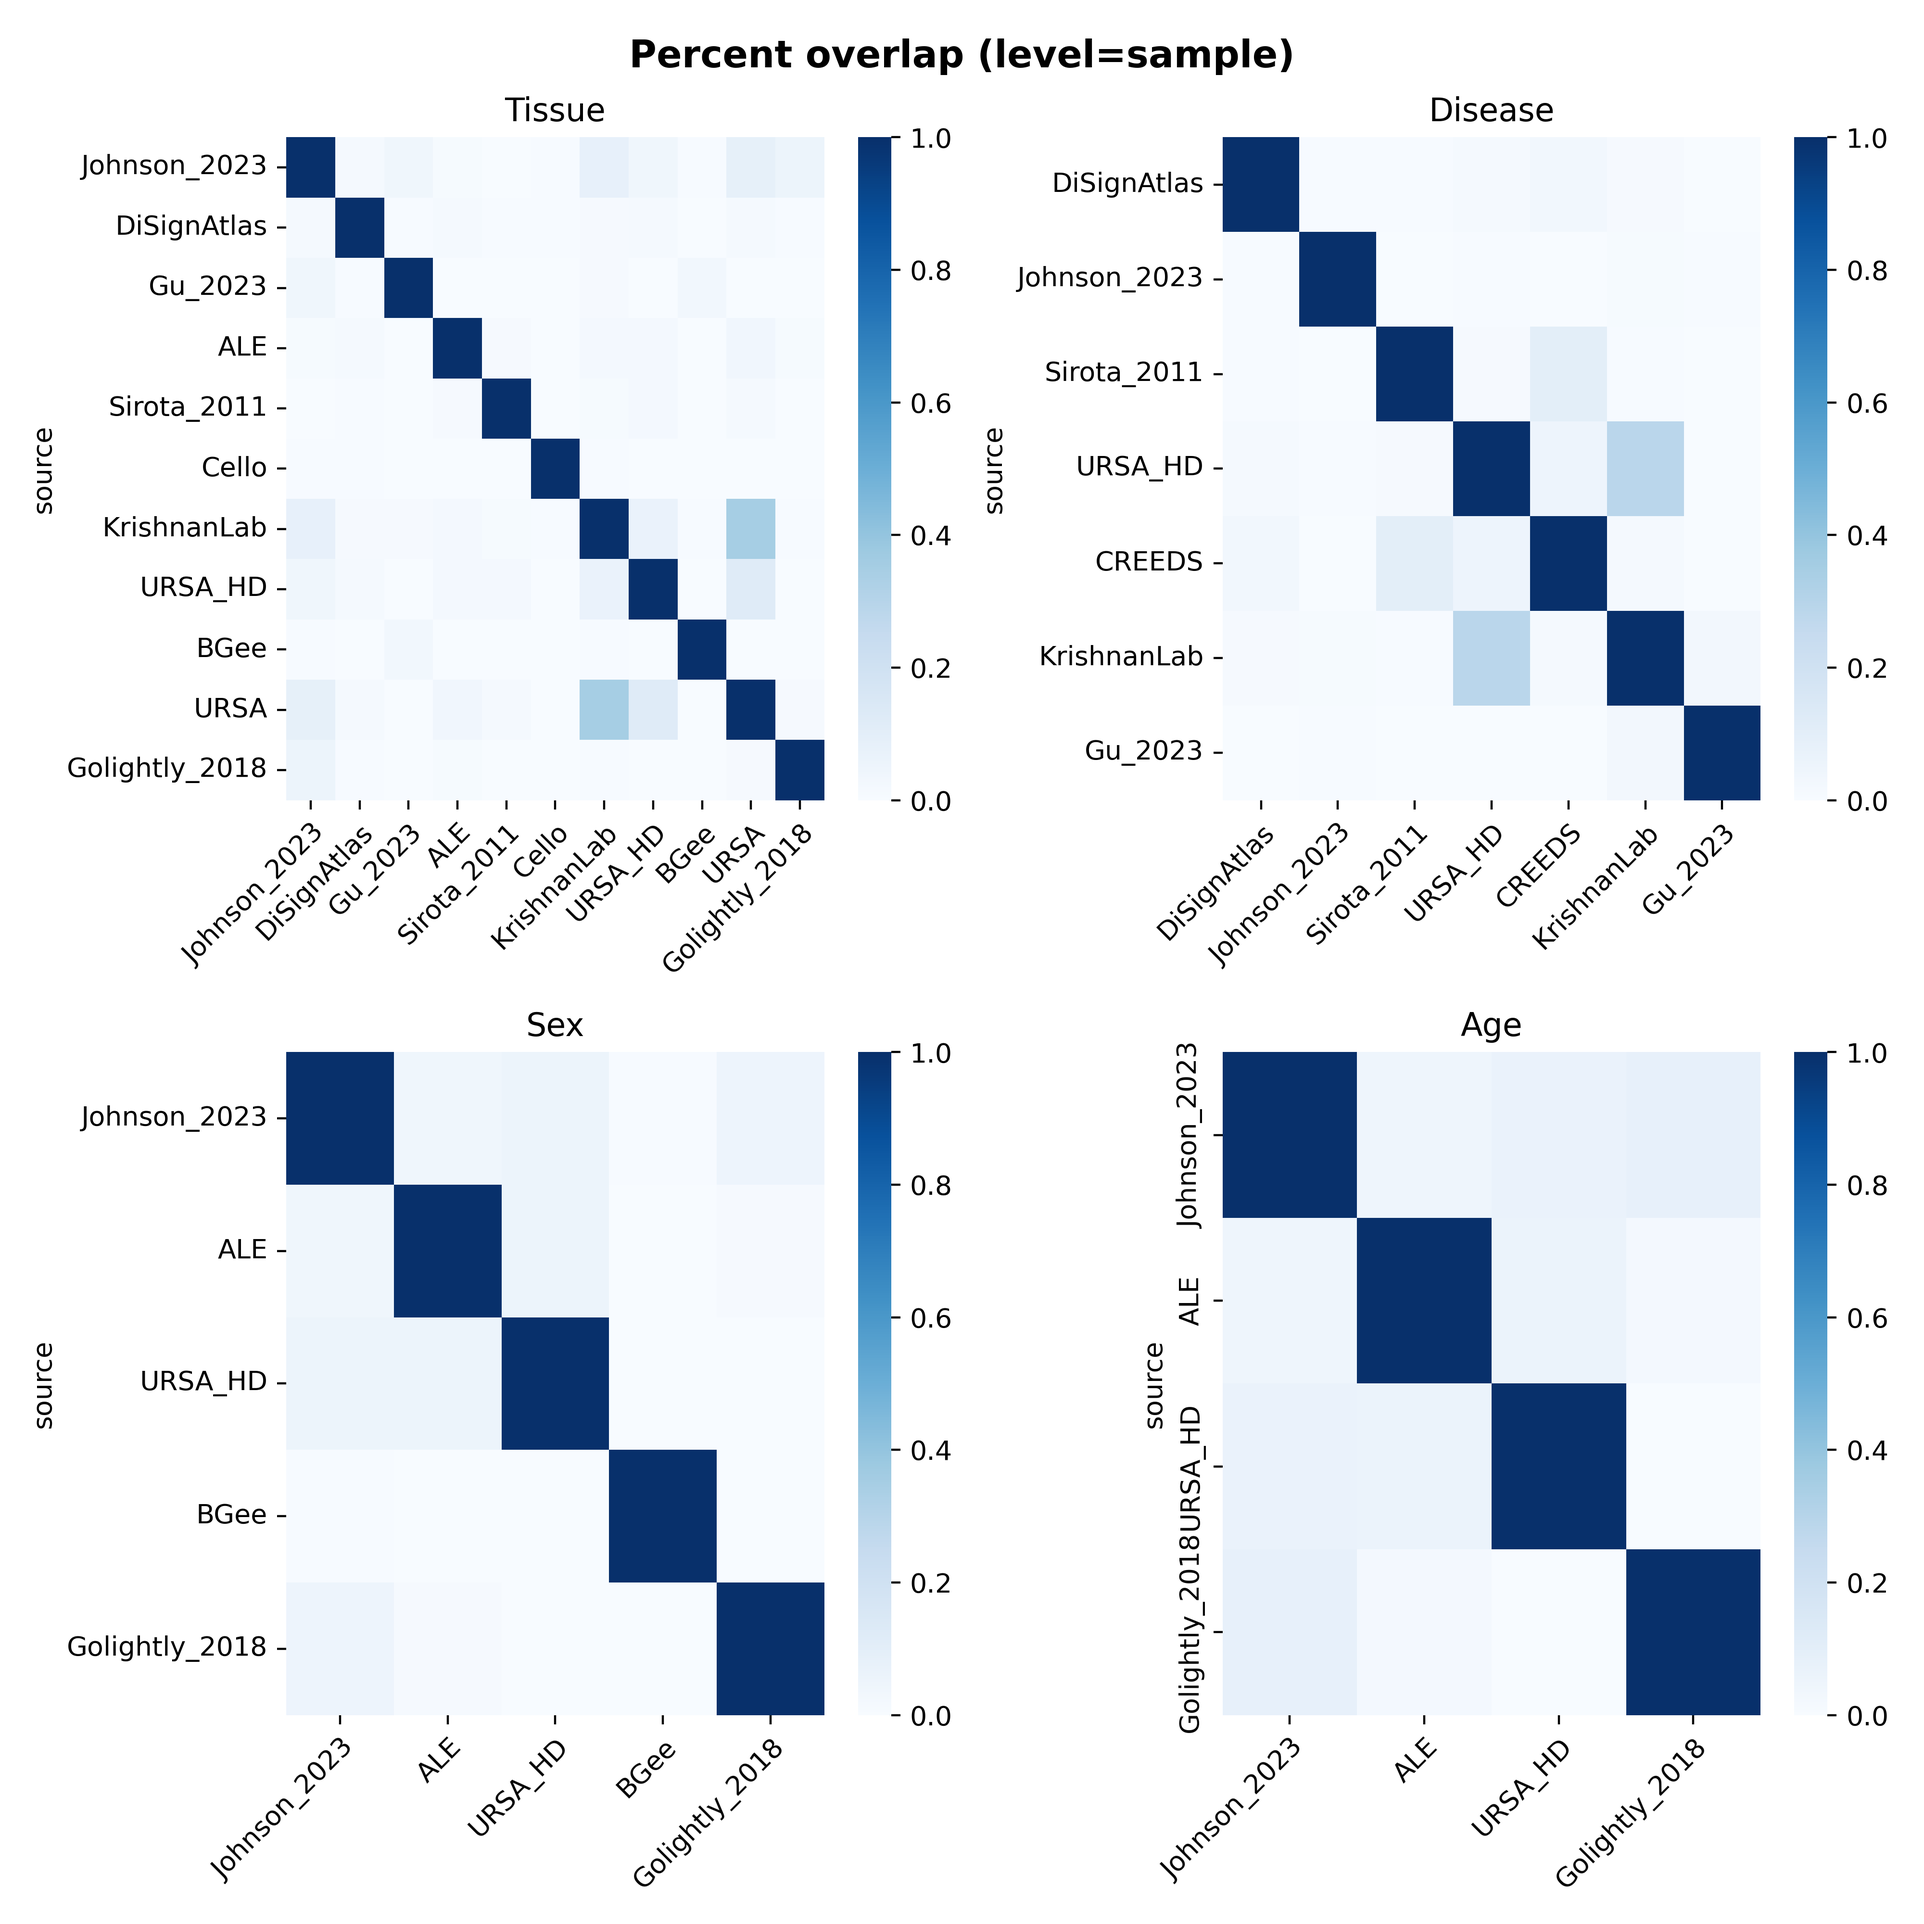
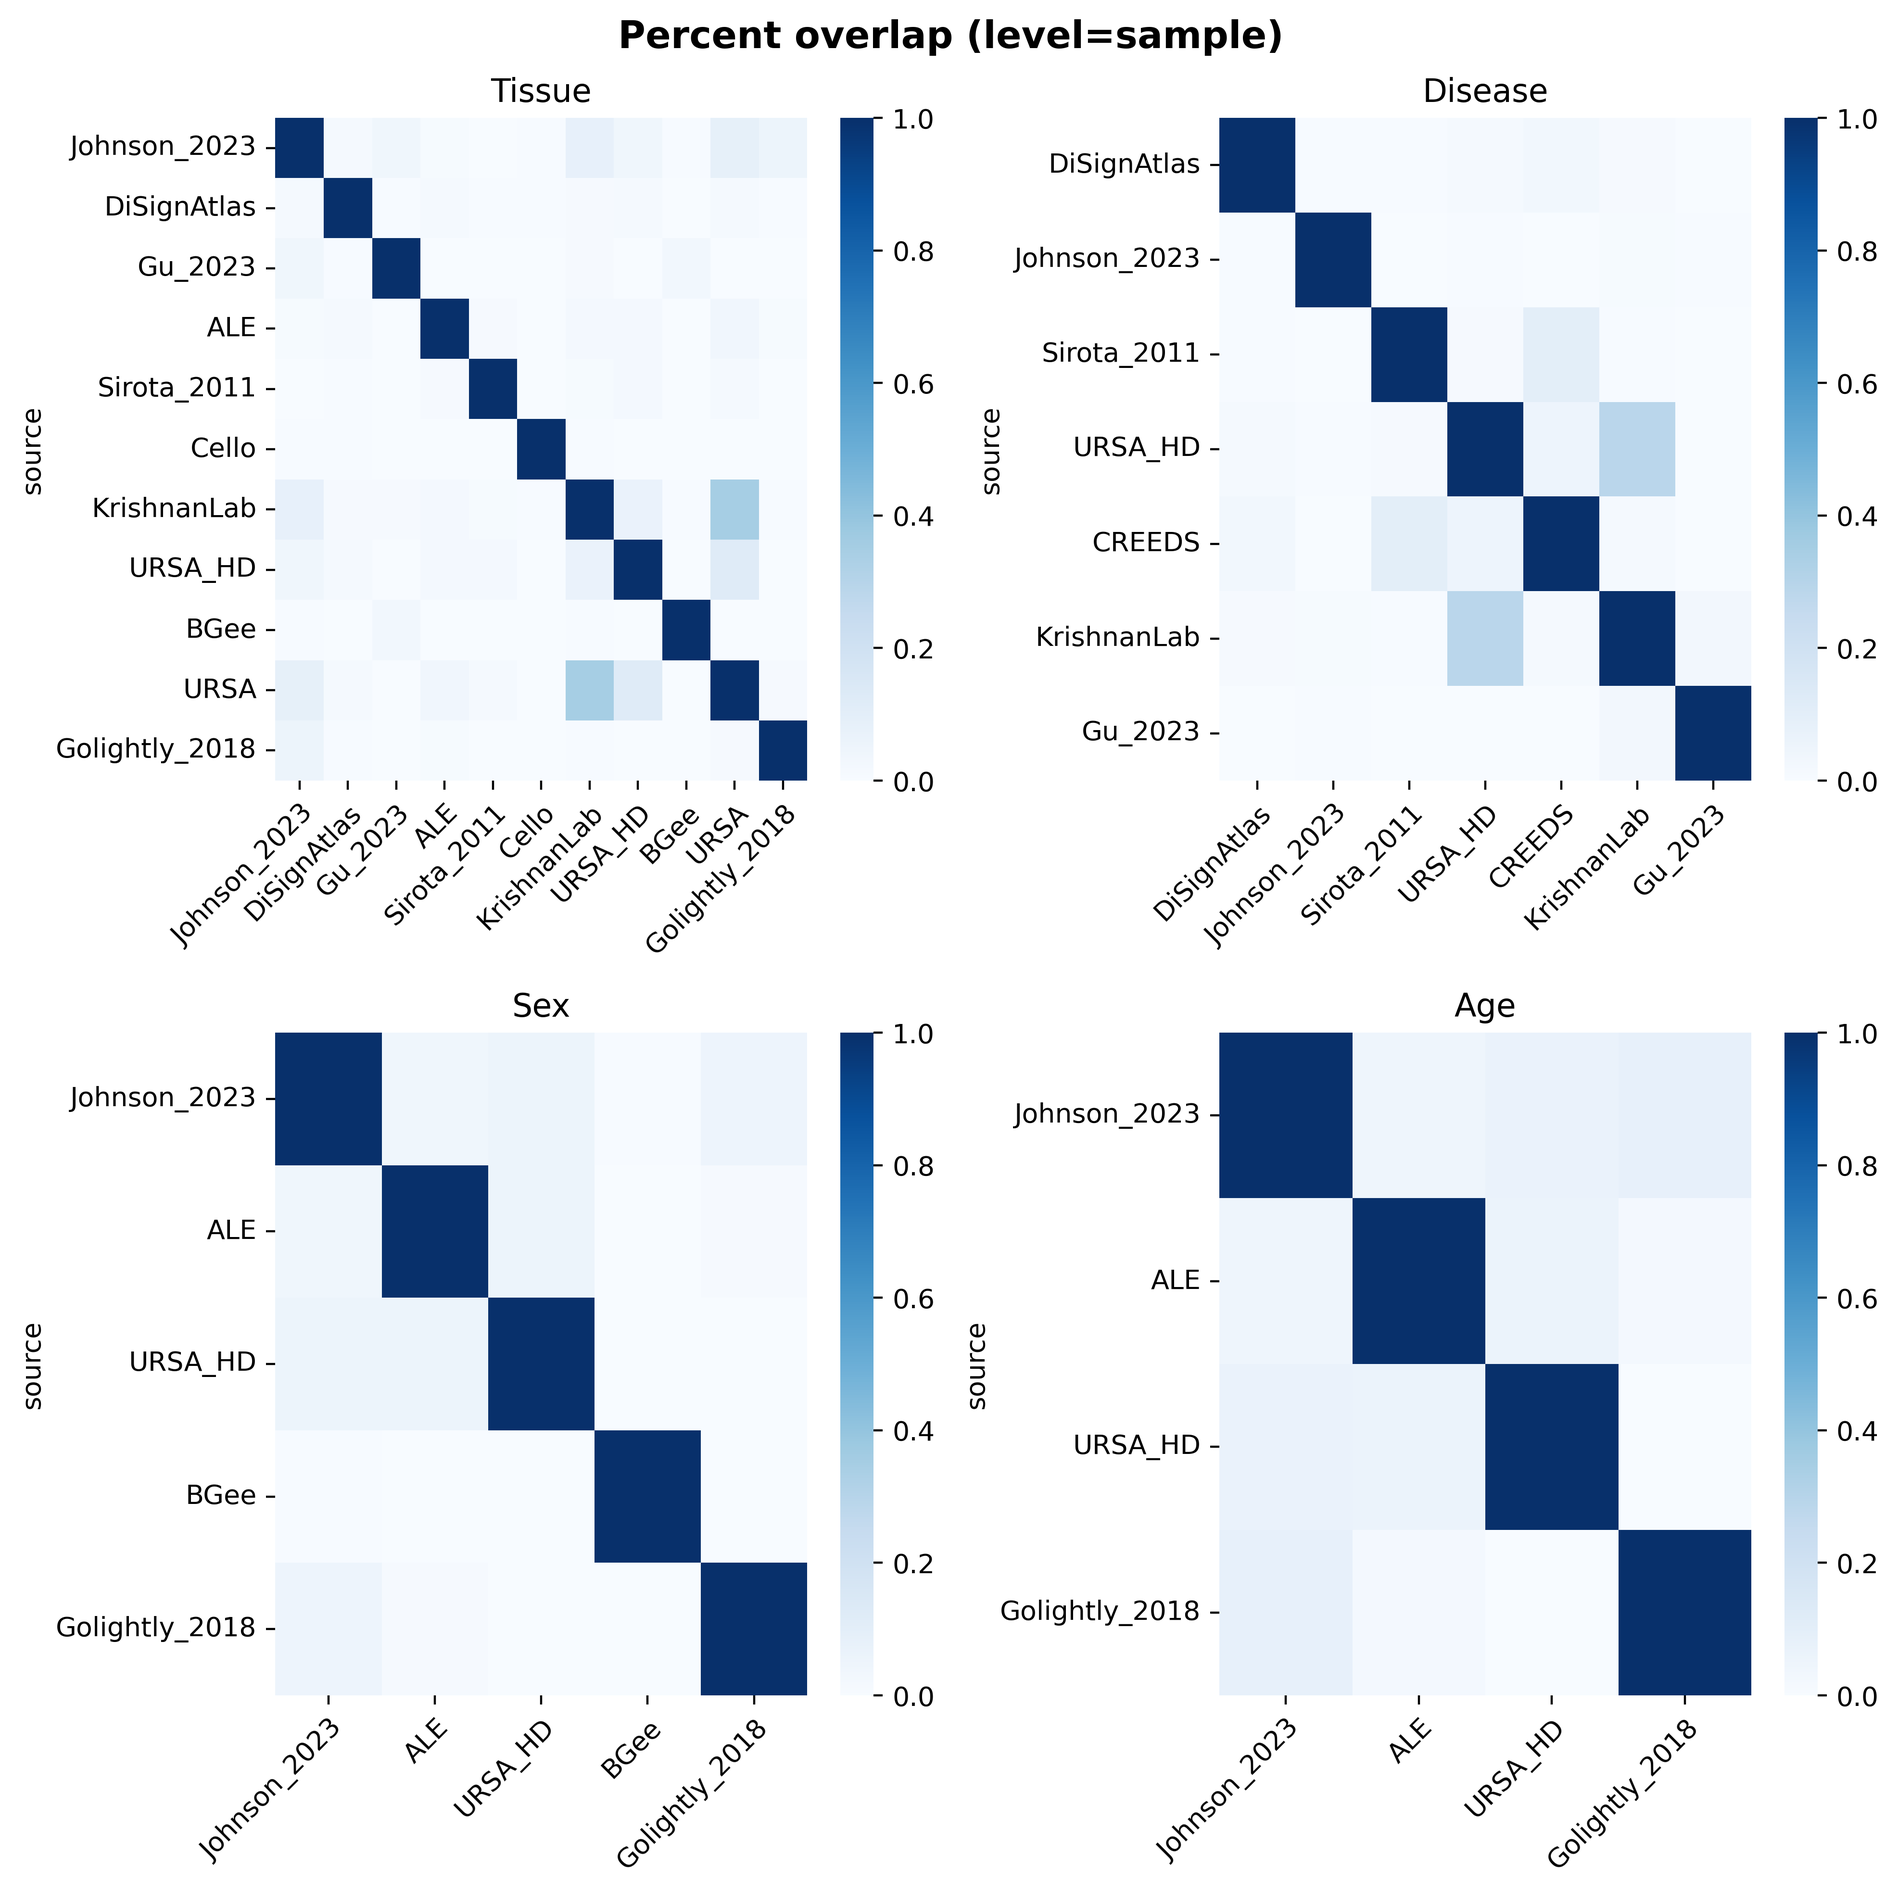
fix: renames series level to study level in figures

diff --git a/notebook/manuscript_figures.py b/notebook/manuscript_figures.py
@@ -911,6 +911,7 @@ def _(Path, np, pl, plt, sns):
         title: str = "",
         order: list[str] | None = None,
         save: bool = False,
+        dpi: int = 400,
         outfile: Path | str | None = None,
         vmax_percentile: float | int | None = None,
         **heatmap_kwargs,
@@ -946,6 +947,7 @@ def _(Path, np, pl, plt, sns):
             ax.set_title(group_name.capitalize())
             xticks = ax.get_xticklabels()
             ax.set_xticklabels(labels=xticks, rotation=45, ha='right', rotation_mode='anchor')
+            ax.set_yticklabels(ax.get_yticklabels(), rotation=0, va="center")
 
         for ax in axes_flat[len(overlap_results):]:
             ax.axis("off")
@@ -954,7 +956,7 @@ def _(Path, np, pl, plt, sns):
         plt.tight_layout()
 
         if save and isinstance(outfile, (str, Path)):
-            plt.savefig(outfile, dpi=400)
+            plt.savefig(outfile, dpi=dpi, bbox_inches="tight")
 
         plt.show()
 
@@ -1140,9 +1142,9 @@ def _(
         order=OVERLAP_ORDER,
         cmap=OVERLAP_CMAP,
         vmax_percentile=95,
-        title="Absolute count overlap (level=series)",
+        title="Absolute count overlap (level=study)",
         save=True,
-        outfile=FIGURES_DIR / "post_harmonization_overlap__level-series__metric-counts.png"
+        outfile=FIGURES_DIR / "post_harmonization_overlap__level-study__metric-counts.png"
     )
     return
 
@@ -1168,9 +1170,9 @@ def _(
         order=OVERLAP_ORDER,
         cmap=OVERLAP_CMAP,
         vmax_percentile=95,
-        title="Percent overlap (level=series)",
+        title="Percent overlap (level=study)",
         save=True,
-        outfile=FIGURES_DIR / "post_harmonization_overlap__level-series__metric-percent.png"
+        outfile=FIGURES_DIR / "post_harmonization_overlap__level-study__metric-percent.png"
     )
     return
 
@@ -1197,9 +1199,9 @@ def _(
         cmap=PMI_CMAP,
         vmax=1,
         vmin=-1,
-        title="Normalized pointwise mutual information (level=series)",
+        title="Normalized pointwise mutual information (level=study)",
         save=True,
-        outfile=FIGURES_DIR / "post_harmonization_overlap__level-series__metric-pmi.png",
+        outfile=FIGURES_DIR / "post_harmonization_overlap__level-study__metric-pmi.png",
     )
     return
 
@@ -1606,9 +1608,9 @@ def _(
         source_harmonization_improvements_series,
         COLORS,
         ATTRIBUTES,
-        title="Post-harmonzation annotation coverage (level=series)",
+        title="Post-harmonzation annotation coverage (level=study)",
         save=True,
-        outfile = FIGURES_DIR / "annotation_coverage_improvements_by_source__level-series.png",
+        outfile = FIGURES_DIR / "annotation_coverage_improvements_by_source__level-study.png",
     )
     return
 
